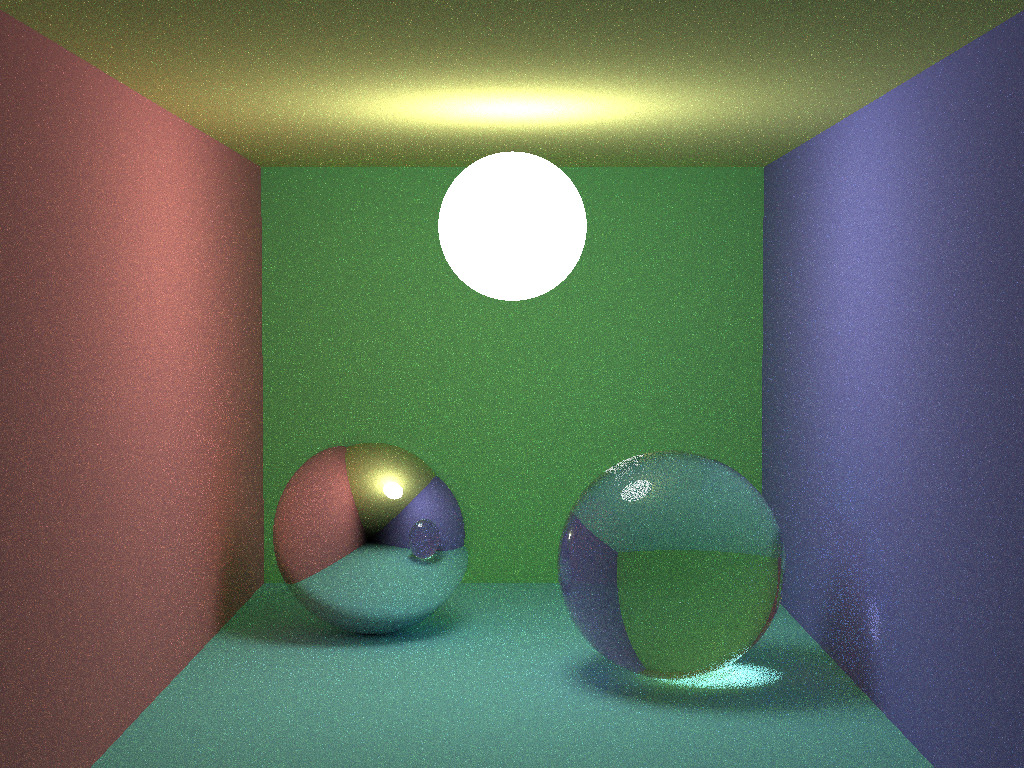
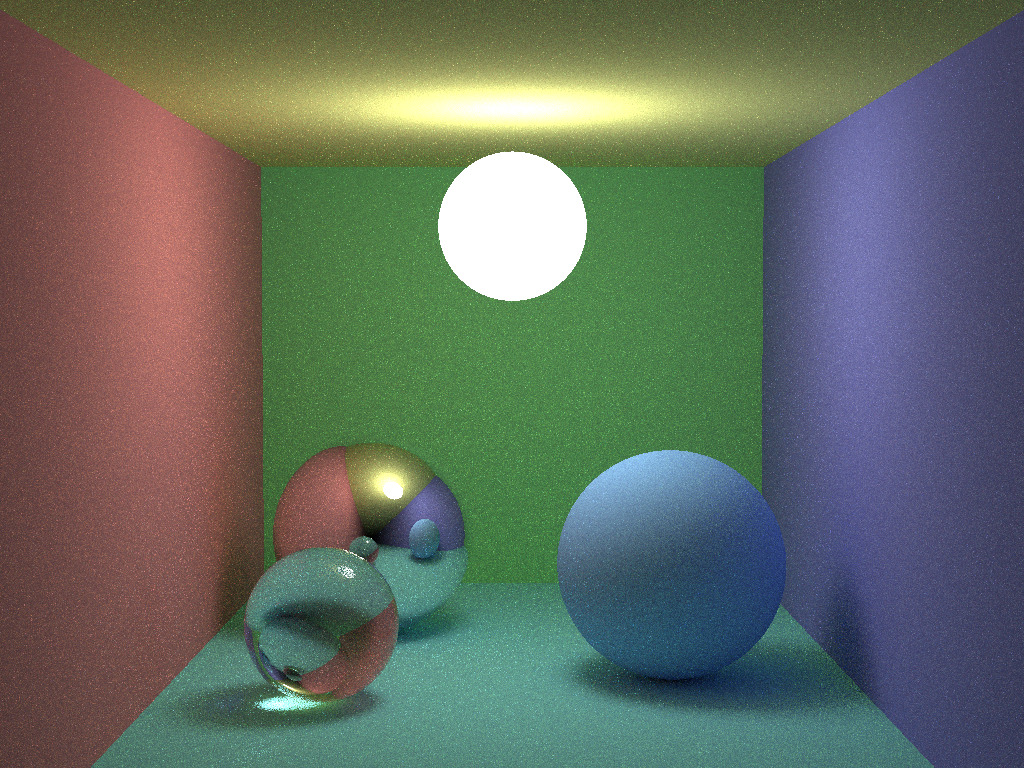
added sphere to scene

diff --git a/Tarea18(nuevas)/rt.cpp b/Tarea18(nuevas)/rt.cpp
@@ -101,8 +101,8 @@ Sphere spheres[] = {
 	Sphere(1e5,  Point(0, -1e5 - 40.8, 0), Color(.25, .75, .75), Color(),		  0), // suelo
 	Sphere(1e5,  Point(0, 1e5 + 40.8, 0),  Color(.75, .75, .25), Color(),		  0), // techo
 	Sphere(16.5, Point(-23, -24.3, -34.6), Color(1, 1, 1),	     Color(),		  1), // esfera abajo-izq
-	Sphere(16.5, Point(23, -24.3, -3.6),   Color(1, 1, 1), 	 	 Color(),		  2), // esfera abajo-der
-	// Sphere(10.5, Point(23, -24.3, -3.6),   Color(1, 0.5, 0.02), 	 	 Color(),		  0), // esfera abajo-der-atras
+	Sphere(16.5, Point(23, -24.3, -3.6),   Color(0.26, 0.53, 0.96), 	 	 Color(),		  0), // esfera abajo-der
+	Sphere(10.5, Point(-26, -30.3, 10),     Color(1, 1, 1), 	 	 Color(),		  2), // esfera abajo-der-atras
 	Sphere(10.5, Point(0, 24.3, 0),        Color(0, 0, 0),       Color(10,10,10), 0) // esfera de luz
 };
 
@@ -373,7 +373,7 @@ Color shade(const Ray &r, int bounce, int cond) {
 int main(int argc, char *argv[]) {
 	int w = 1024, h = 768; // image resolution
 
-	int N = 32;  // numero de muestras
+	int N = 512;  // numero de muestras
 
 	// fija la posicion de la camara y la dirección en que mira
 	Ray camera( Point(0, 11.2, 214), Vector(0, -0.042612, -1).normalize() );
